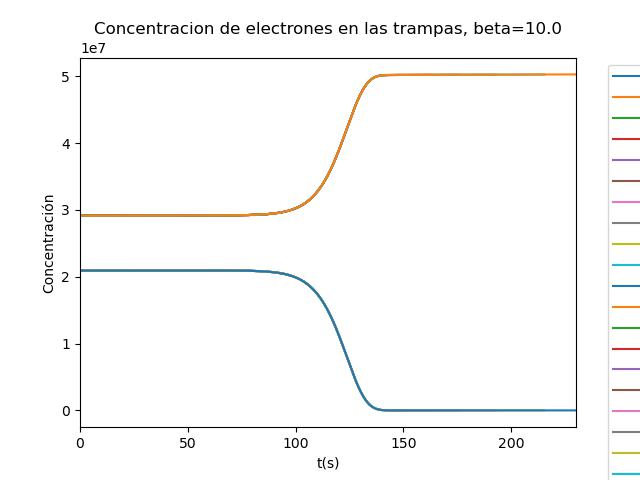
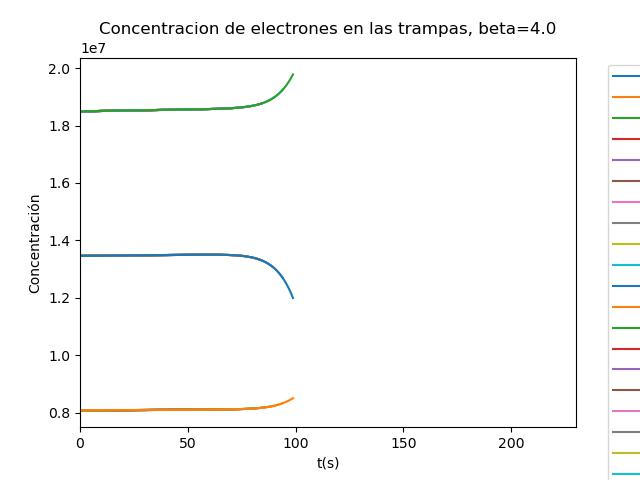
Añadido nivel de fermi en el excel

diff --git a/app.py b/app.py
@@ -47,8 +47,9 @@ f = dfnew.iloc[0:1, 14]     # Factor de generacion de pares e-h (cm-3·s-1).
 n_c = dfnew.iloc[0:1, 15]
 # Concentración de huecos libres en la banda de Valencia (cm-3).
 n_h = dfnew.iloc[0:1, 16]
-
-
+# Nivel de Fermi (Ev)
+Ef = dfnew.iloc[0:1, 17]
+Ef=float(Ef)
 E = E.to_numpy()
 s = s.to_numpy()
 n = n.to_numpy()
@@ -101,7 +102,8 @@ def leer_datos(dfnew):
     n_c = dfnew.iloc[0:1, 15]
     # Concentración de huecos libres en la banda de Valencia (cm-3).
     n_h = dfnew.iloc[0:1, 16]
-
+    # Nivel de Fermi (Ev)
+    Ef = dfnew.iloc[0:1, 17]
 
     E = E.to_numpy()
     s = s.to_numpy()
@@ -119,7 +121,10 @@ def leer_datos(dfnew):
     f = f.to_numpy()
     n_c = n_c.to_numpy()
     n_h = n_h.to_numpy()
-    return E,s,n,N,Nsat,A,Amn_R,Amn_NR, A_R,A_NR,M_R,m_R,m_NR,f,n_c,n_h
+    # Nivel de Fermi (Ev)
+    Ef = Ef.to_numpy()
+    Ef=float(Ef)
+    return E,s,n,N,Nsat,A,Amn_R,Amn_NR, A_R,A_NR,M_R,m_R,m_NR,f,n_c,n_h,Ef
 
 # Condiciones iniciales
 nn = np.array(n_c[0])
@@ -154,9 +159,10 @@ def Ng(t, i):  # En esta función simulamos la creación de trampas durante la i
     return Ngg
 
 
+
 def Nee(E, i, T):  # Esta es la distribución de Fermi-Dirac que utilizaremos en la irradiación
     Ngg = []
-    Ngg = N[i]/(1+np.exp((E-2.7)/(kb*T)))
+    Ngg = N[i]/(1+np.exp((E-Ef)/(kb*T)))
     return Ngg
 
 
@@ -349,7 +355,7 @@ if option == "Cargar archivo Excel":
     file = st.file_uploader("Selecciona un archivo Excel para crear un DataFrame", type=["xlsx"])
     if file is not None:
         df2 = pd.read_excel(file, sheet_name='Hoja1', header=0, usecols=None, nrows=None)
-        E,s,n,N,Nsat,A,Amn_R,Amn_NR, A_R,A_NR,M_R,m_R,m_NR,f,n_c,n_h=leer_datos(df2)
+        E,s,n,N,Nsat,A,Amn_R,Amn_NR, A_R,A_NR,M_R,m_R,m_NR,f,n_c,n_h,Ef=leer_datos(df2)
         # Condiciones iniciales
         nn = np.array(n_c[0])
         for i in range(len(n)):
